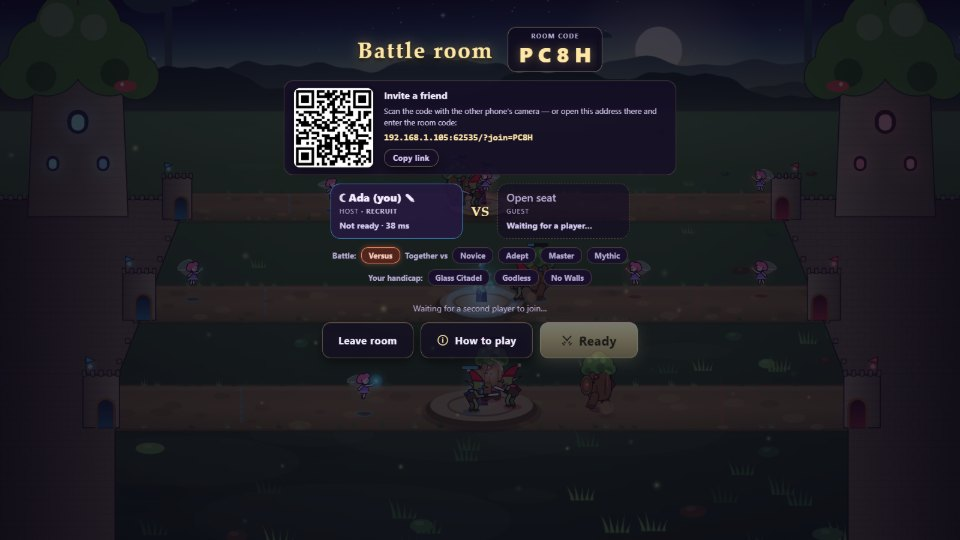
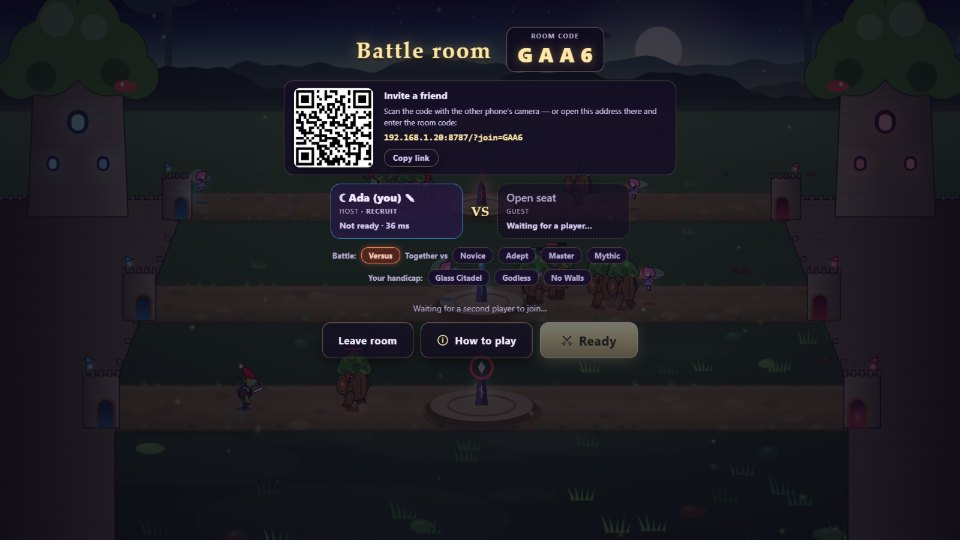
Backlog 216: shoot's invite shows a fixed example LAN address; README's room picture re-made with it

diff --git a/scripts/shoot.ts b/scripts/shoot.ts
@@ -343,7 +343,9 @@ async function main(): Promise<void> {
     }
   });
   // (Multiplayer next to the game, as `npm run lan` has it: the lobby and room scenarios.)
-  const mp = attachMultiplayer(server);
+  // (A fixed example address for the invite: pictures stay the same between shots and say nothing
+  // about the machine they were made on.)
+  const mp = attachMultiplayer(server, { lanUrls: () => ['http://192.168.1.20:8787/'] });
   await new Promise<void>((r) => server.listen(0, '127.0.0.1', () => r()));
   const port = (server.address() as { port: number }).port;
   await mkdir('screenshots', { recursive: true });

diff --git a/PROGRESS.md b/PROGRESS.md
@@ -379,10 +379,11 @@ it prints, inviting, stopping — 2026-10-13.)
 215. [ ] Back in the battle room (phones, #166/#209) does nothing — like Esc, so a stray swipe can't
    drop a friend's seat. But an Android player pressing Back there expects to go back: offer a
    small "Leave the room?" confirm (Leave / Stay) on Back instead of nothing; Esc unchanged.
-216. [ ] `shoot`'s multiplayer scenarios show this machine's real LAN address and port in the invite
+216. [x] `shoot`'s multiplayer scenarios show this machine's real LAN address and port in the invite
    (README's `docs/mp-room.jpg`: 192.168.1.105:62535). Give shoot's server a fixed example
    (`lanUrls: () => ['http://192.168.1.20:8787/']` — an `attachMultiplayer` option already) so
-   pictures are stable between shots and say nothing about the machine they were made on.
+   pictures are stable between shots and say nothing about the machine they were made on. (Done:
+   shoot's server announces http://192.168.1.20:8787/; docs/mp-room.jpg re-made with it.)
 
 
 
@@ -429,7 +430,7 @@ built, how to see each part working, and the decisions that need you.
 - Late in the run: the WebKit (iPhone engine) pass in `mpengines` checks the http copy fallback and
   Back (#201); Back is guarded on touch devices only (#209); PROGRESS.md split — history in
   docs/PROGRESS-archive.md (#202); README's two multiplayer pictures re-shot (#187, #206); a flaky
-  smoke heartbeat check fixed (#212). Open for the next run: #137, #172, #204, #215, #216 (#211, #213, #214 done at the very end).
+  smoke heartbeat check fixed (#212). Open for the next run: #137, #172, #204, #215 (#211, #213, #214 done at the very end).
 - **Open question added:** the downloadable release (v1.0.0) is ~280 commits old.
 - Tests 256 → 285; `npm run verify` and `verify:all` green (engines identical, 0.67 ms script per
   frame); `mpengines` (WebKit vs Chrome/Firefox) in sync.
